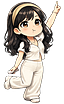
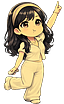
update projectile and spitting sprites

diff --git a/src/entities/Projectile.ts b/src/entities/Projectile.ts
@@ -2,7 +2,7 @@ import Phaser from 'phaser'
 import { TextureKeys } from '../config/textureKeys'
 
 const PROJECTILE_SPEED = 420
-const PROJECTILE_WIDTH = 60
+const PROJECTILE_WIDTH = 80
 const PROJECTILE_HEIGHT = 60
 
 export default class Projectile extends Phaser.Physics.Arcade.Sprite {

diff --git a/src/entities/Player.ts b/src/entities/Player.ts
@@ -13,7 +13,7 @@ export const PlayerState = {
 
 export type PlayerStateType = 'idle' | 'moving' | 'inhaling' | 'full'
 
-const PLAYER_WIDTH = 60
+const PLAYER_WIDTH = 64
 export const PLAYER_HEIGHT = 104
  const PLAYER_SPEED = 240
 const FULL_SPEED_MULTIPLIER = 0.5
